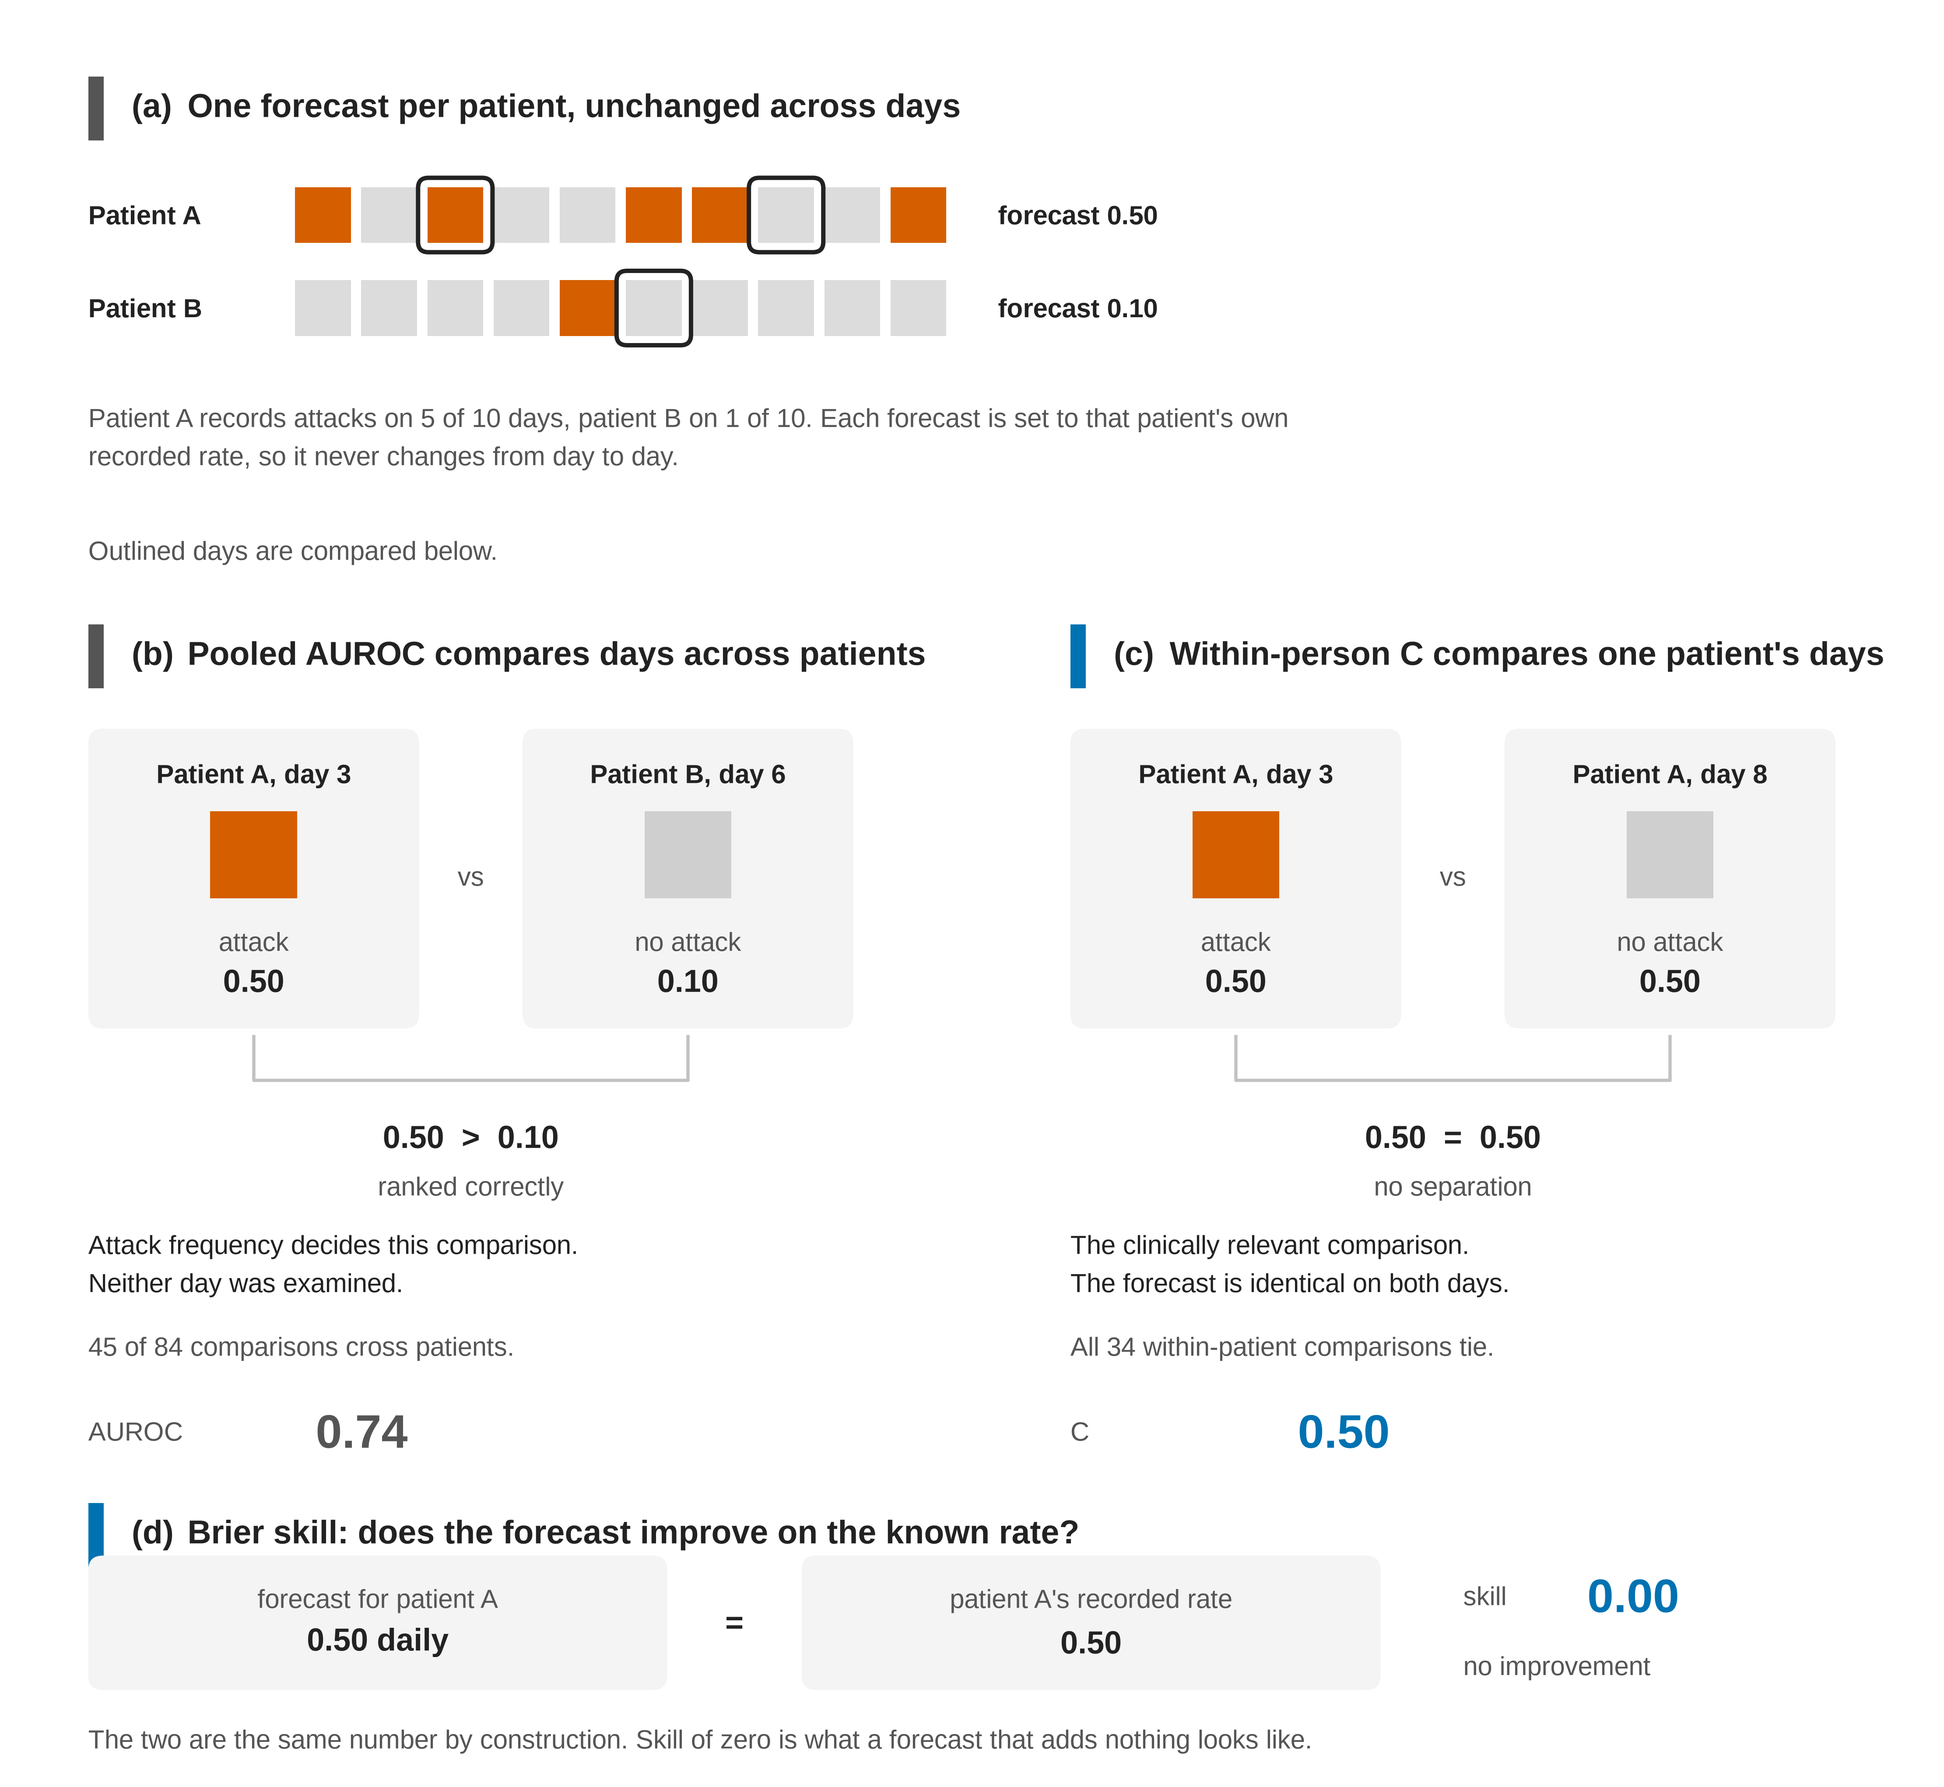
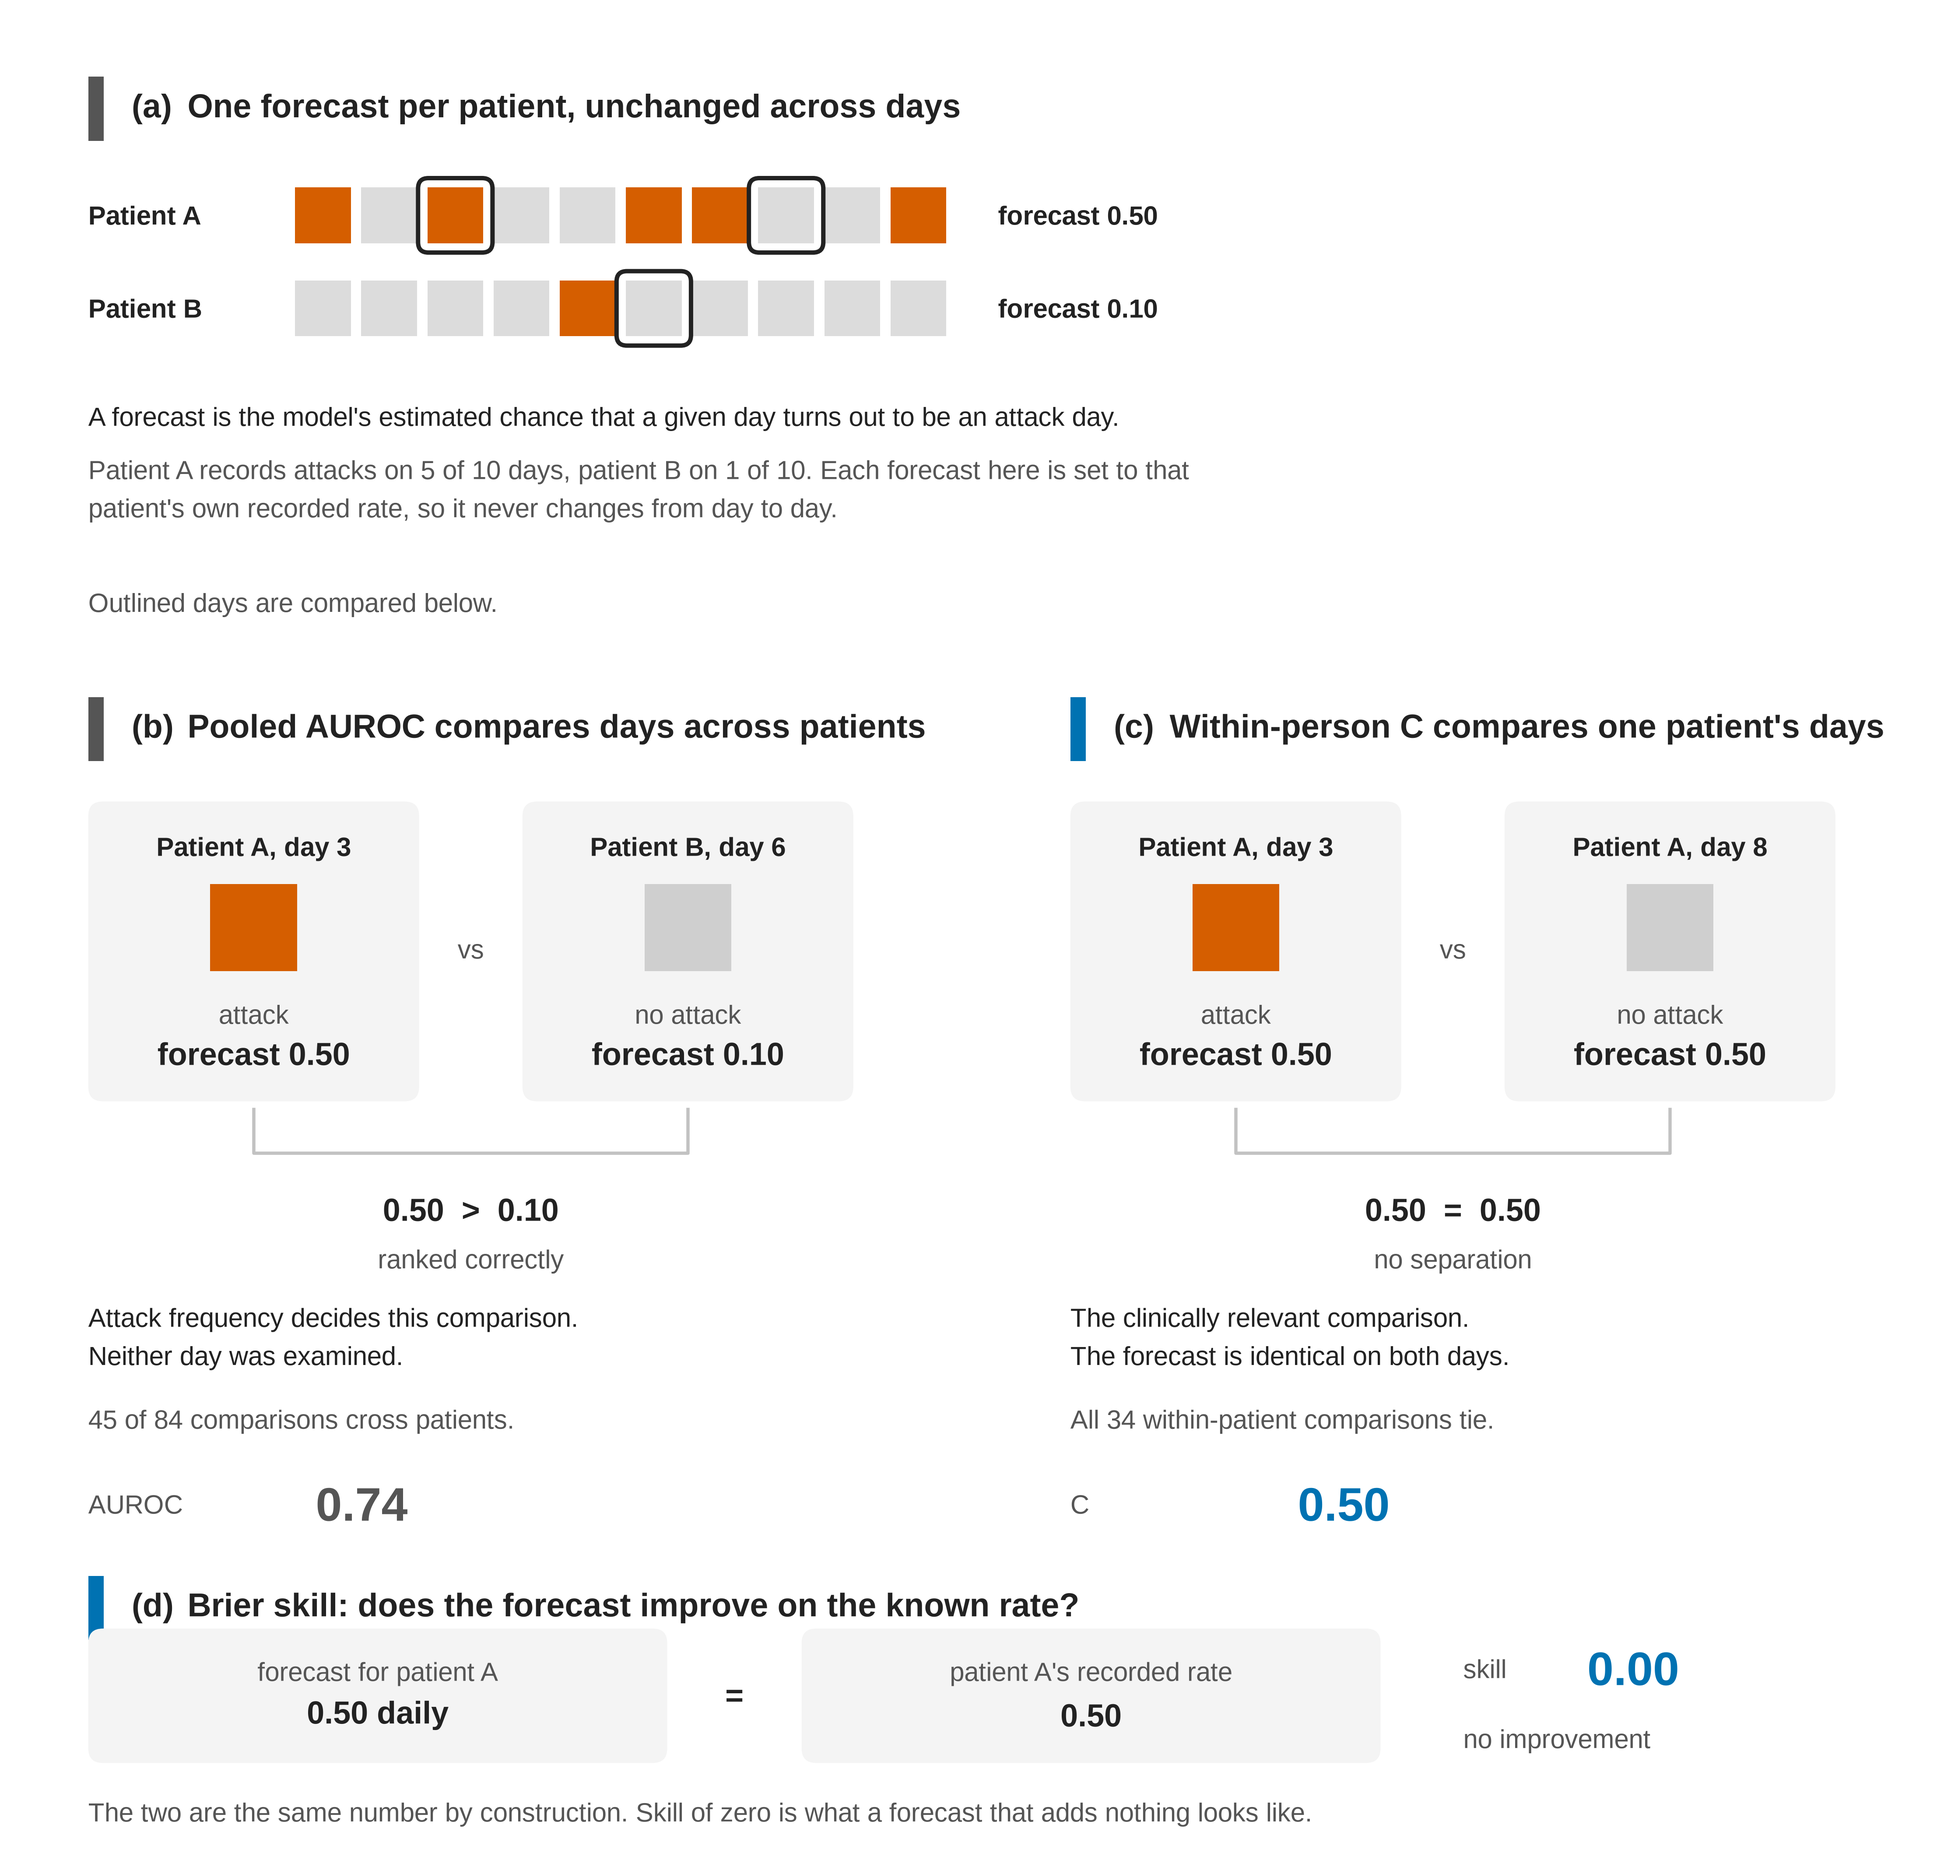
defn

diff --git a/docs/methodAndResults_diagramCreatorScripts/fig_a6_pooled_vs_within.py b/docs/methodAndResults_diagramCreatorScripts/fig_a6_pooled_vs_within.py
@@ -39,7 +39,7 @@ from sklearn.metrics import roc_auc_score
 
 HERE = Path(__file__).resolve().parent
 
-W_MM, H_MM = 183.0, 166.0          # canvas is millimetres at final size
+W_MM, H_MM = 183.0, 173.0          # canvas is millimetres at final size
 QUIET, RULE = "#e3e3e3", "#9a9a9a"
 
 N_DAYS = 10
@@ -110,16 +110,17 @@ def _daycard(ax, x, y, w, h, who, day, is_attack, risk, att):
                            fc=att if is_attack else "#cfcfcf", ec="none"))
     _txt(ax, x + w / 2, y + h - 20.6, "attack" if is_attack else "no attack",
          PT_BODY, MUTE, "center")
-    _txt(ax, x + w / 2, y + 4.6, f"{risk:.2f}", PT_LEAD, INK, "center", "bold")
+    _txt(ax, x + w / 2, y + 4.6, f"forecast {risk:.2f}", PT_LEAD, INK,
+         "center", "bold")
 
 
 def _diaries(ax, att, accent):
-    _claim(ax, 6, 158.0, "a", "One forecast per patient, unchanged across days", accent)
+    _claim(ax, 6, 165.0, "a", "One forecast per patient, unchanged across days", accent)
     s, pitch = 5.4, 6.4
     ring = {("A", A_ATK_DAY), ("A", A_QUIET_DAY), ("B", B_QUIET_DAY)}
     for k, (name, attacks, rate) in enumerate([("A", A_ATTACK, A_RATE),
                                                ("B", B_ATTACK, B_RATE)]):
-        yy = 145.0 - k * 9.0
+        yy = 152.0 - k * 9.0
         _txt(ax, 6, yy + s / 2, f"Patient {name}", PT_BODY, INK, weight="bold")
         for i in range(N_DAYS):
             ax.add_patch(Rectangle((26 + i * pitch, yy), s, s,
@@ -131,10 +132,12 @@ def _diaries(ax, att, accent):
                                             boxstyle="round,pad=0,rounding_size=1.0"))
         _txt(ax, 26 + N_DAYS * pitch + 4.0, yy + s / 2, f"forecast {rate:.2f}",
              PT_BODY, INK, weight="bold")
-    _txt(ax, 6, 126.0, "Patient A records attacks on 5 of 10 days, patient B on 1 of 10. "
-                       "Each forecast is set to that patient's own\nrecorded rate, so it "
-                       "never changes from day to day.", PT_BODY, MUTE)
-    _txt(ax, 6, 115.0, "Outlined days are compared below.", PT_BODY, MUTE)
+    _txt(ax, 6, 135.0, "A forecast is the model's estimated chance that a given day turns "
+                       "out to be an attack day.", PT_BODY, INK)
+    _txt(ax, 6, 128.0, "Patient A records attacks on 5 of 10 days, patient B on 1 of 10. "
+                       "Each forecast here is set to that\npatient's own recorded rate, so "
+                       "it never changes from day to day.", PT_BODY, MUTE)
+    _txt(ax, 6, 117.0, "Outlined days are compared below.", PT_BODY, MUTE)
 
 
 def _question(ax, x0, y0, letter, claim, left, right, verdict, ruling, why, tally,
